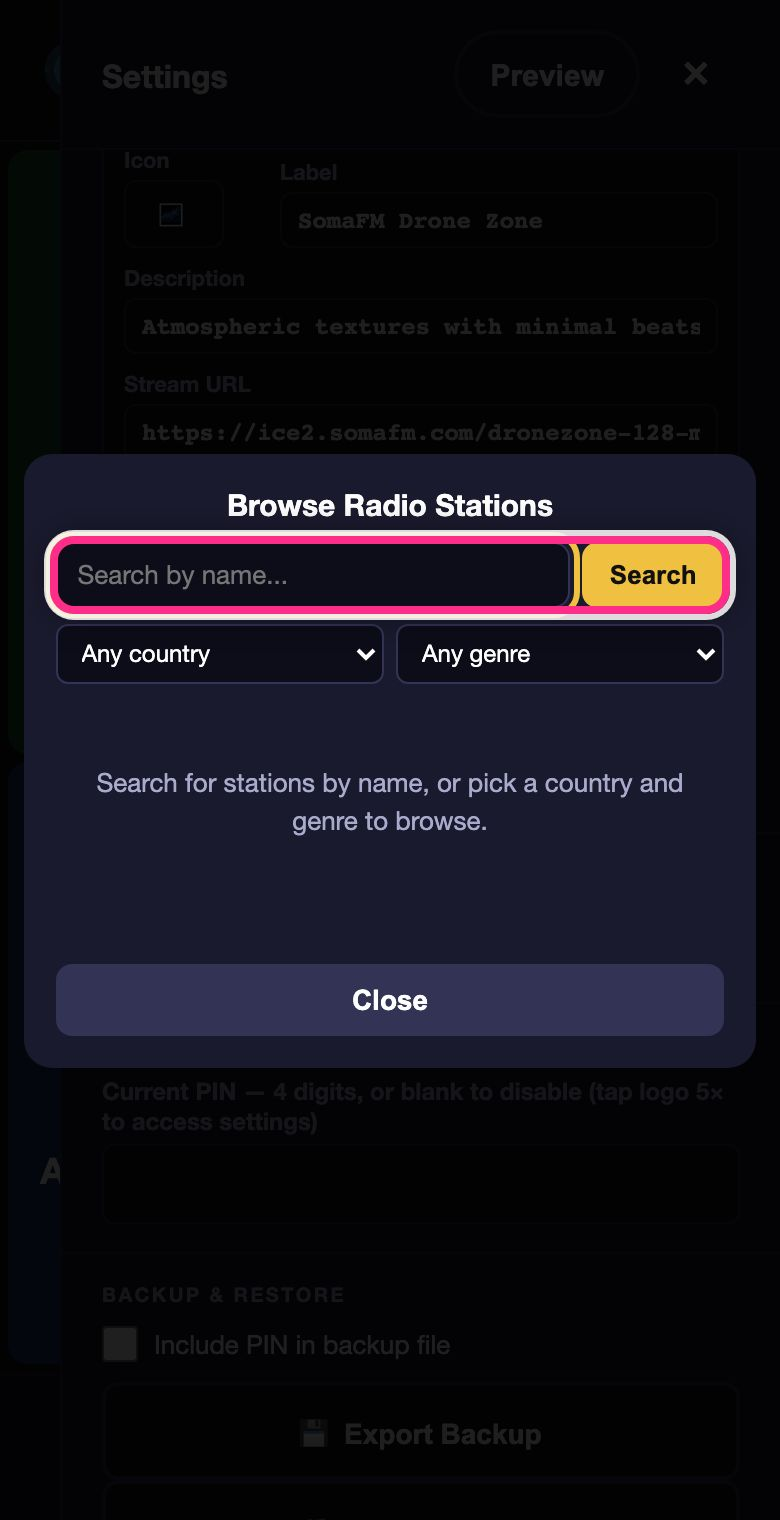
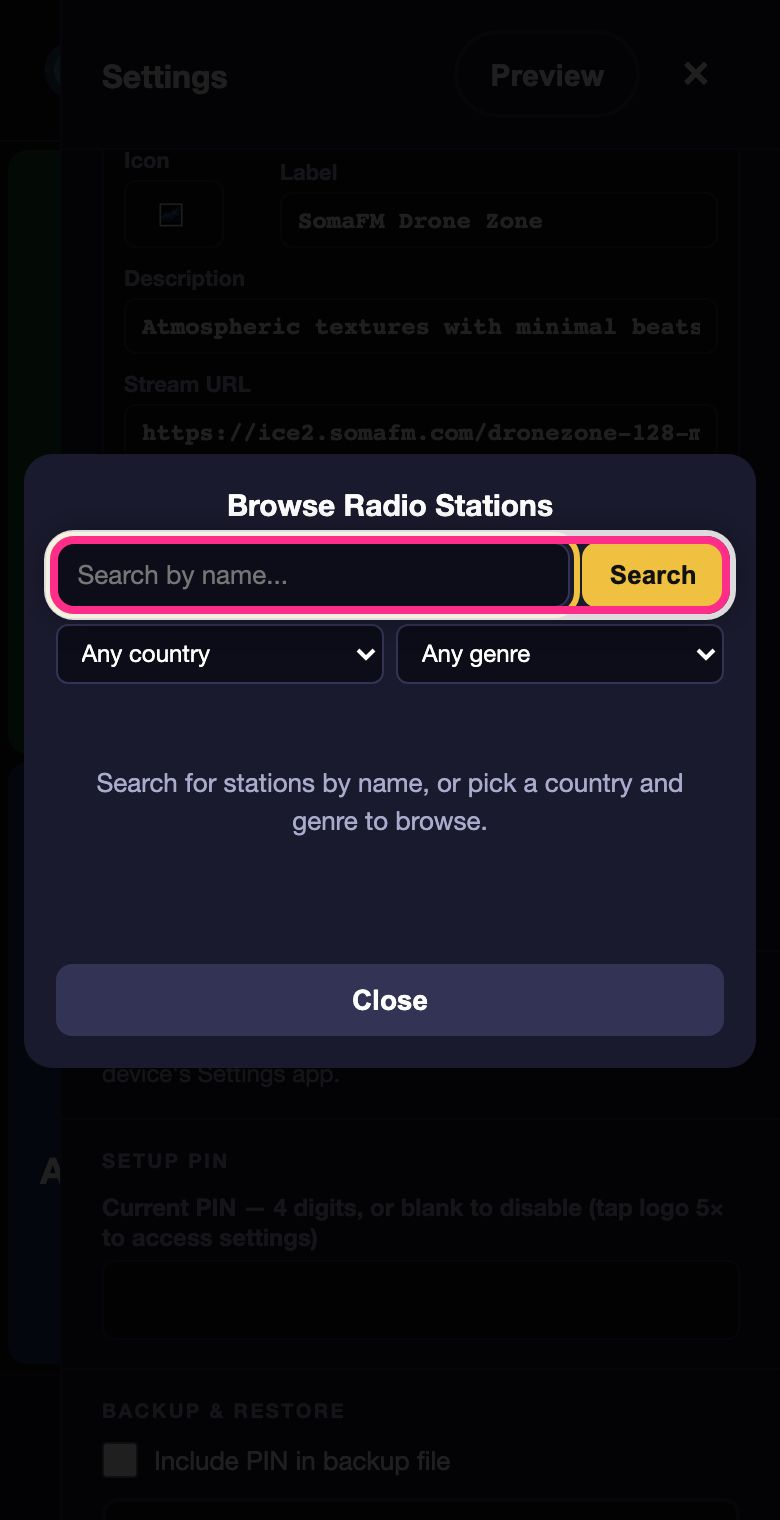
radio: sync RadioGridXL v7.8.1 (bee8848)

diff --git a/public/radio/index.html b/public/radio/index.html
@@ -2024,6 +2024,7 @@ html.is-ios .ios-hide { display: none; }
         <button class="stream-browse-btn" onclick="openStreamBrowser()">&#128269; Browse</button>
       </div>
       <div class="stream-hint" id="stream-hint" style="display:none" role="note"></div>
+      <div class="s-hint">Stations are run by other people, and this app has no control over what they play. Listen to a station yourself before adding it for someone else.</div>
     </div>
 
     <div class="s-section" id="device-section">
@@ -2061,7 +2062,7 @@ html.is-ios .ios-hide { display: none; }
     <div class="s-hint" id="apply-status" role="alert" hidden></div>
     <button id="apply-btn" onclick="applySettings()">Apply &amp; Close</button>
     <button id="reset-btn" onclick="confirmReset()">Reset to Defaults</button>
-    <div id="settings-version" aria-hidden="true">RadioGridXL v7.8.0</div>
+    <div id="settings-version" aria-hidden="true">RadioGridXL v7.8.1</div>
   </aside>
 
   <!-- Shown only while previewing settings — see startPreview() -->

diff --git a/public/radio/sw.js b/public/radio/sw.js
@@ -5,7 +5,7 @@
    it sat at v1 from 7.5.0). Keep it in lockstep with the version-bump routine.
    The server sends sw.js no-cache, so each load refetches this file and the
    install→activate purge cycle kicks in. */
-const CACHE_VERSION = 'rgxl-shell-7.8.0-f65b2f7f';
+const CACHE_VERSION = 'rgxl-shell-7.8.1-7b88fb00';
 
 /* Shell assets, relative to the SW scope (the directory it's served from).
    start_url is "." so the HTML is reachable both as "./" and by filename.

diff --git a/src/content/guides/radiogridxl.md b/src/content/guides/radiogridxl.md
@@ -1,7 +1,7 @@
 ---
 title: How to use RadioGridXL
 description: Open settings, change and add stations, pick a theme, and set it up for someone who just wants to press a button and hear music.
-appVersion: 7.8.0
+appVersion: 7.8.1
 ---
 
 RadioGridXL is built for the person listening: big buttons, one per station, nothing else to figure out. Everything you can change is tucked away in a hidden settings panel, so the listener never lands there by accident.
@@ -52,6 +52,8 @@ Links that start with `http://` (no "s") won't play on this website, because bro
 ## Add a station
 
 You can have up to 8 stations. There are two ways to add one.
+
+Stations are run by other people, and this app has no control over what they play. Listen to a station yourself before adding it for someone else.
 
 ### Search for a station
 
